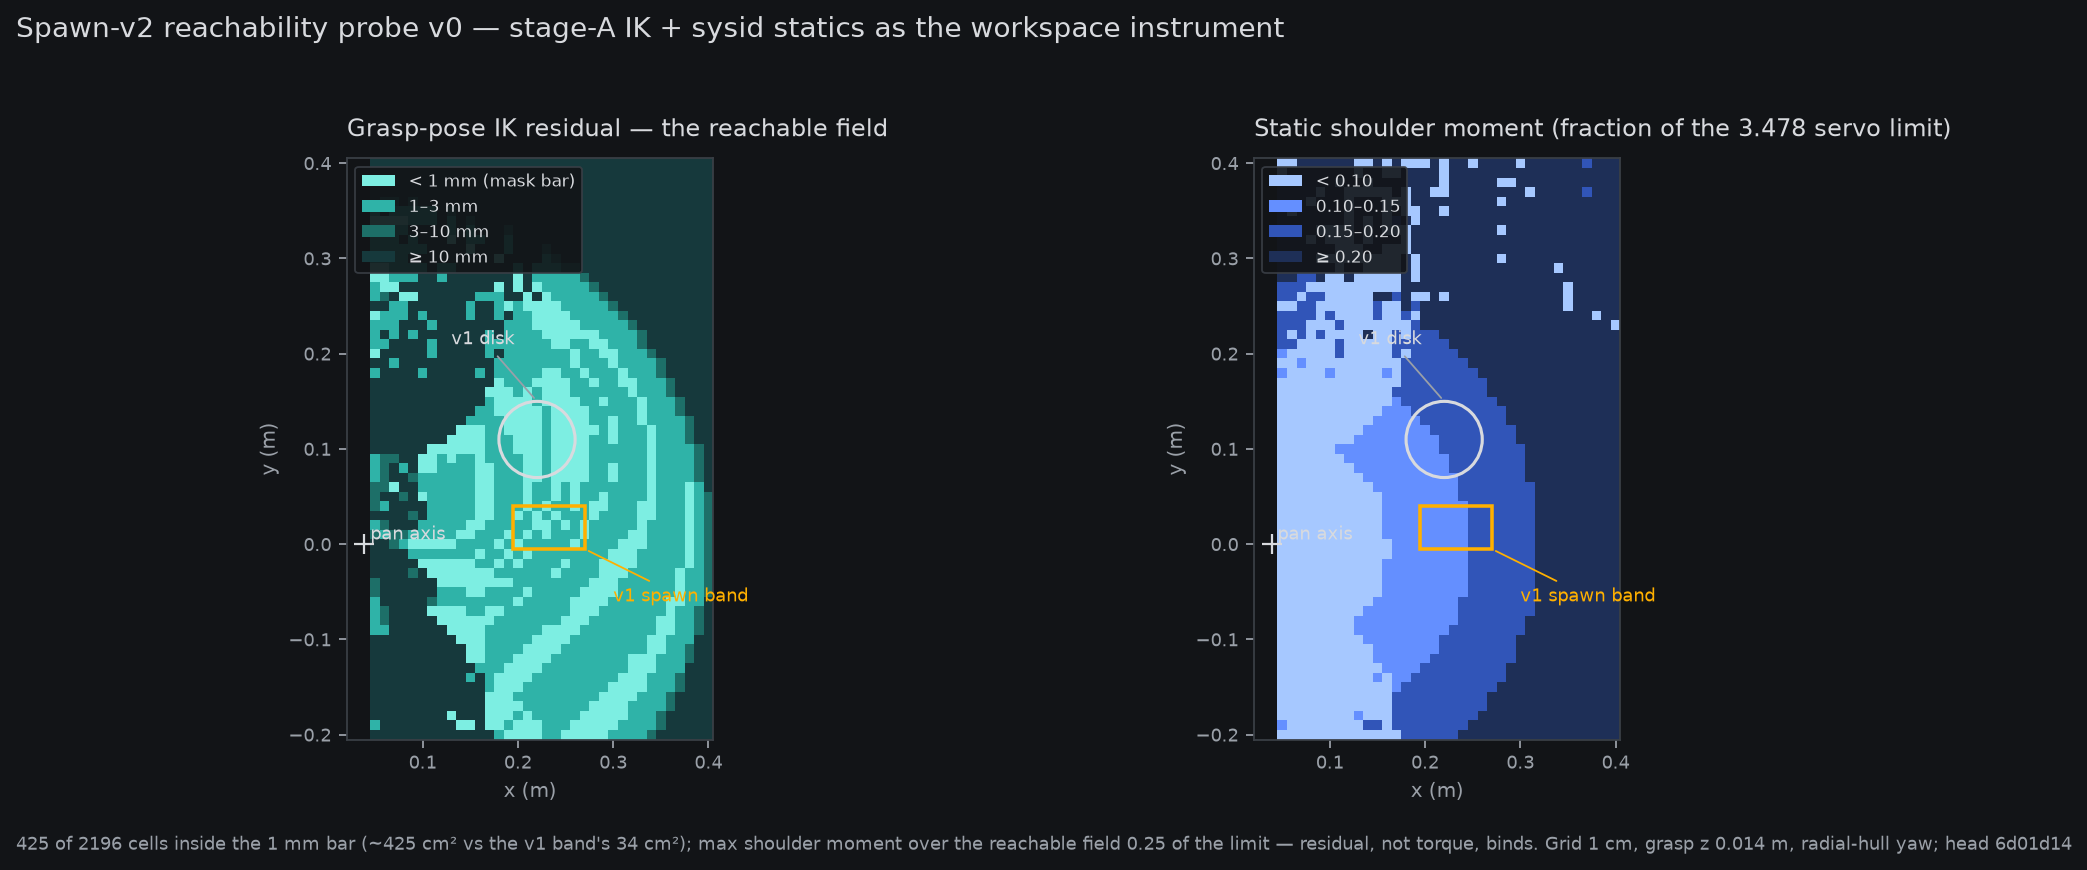
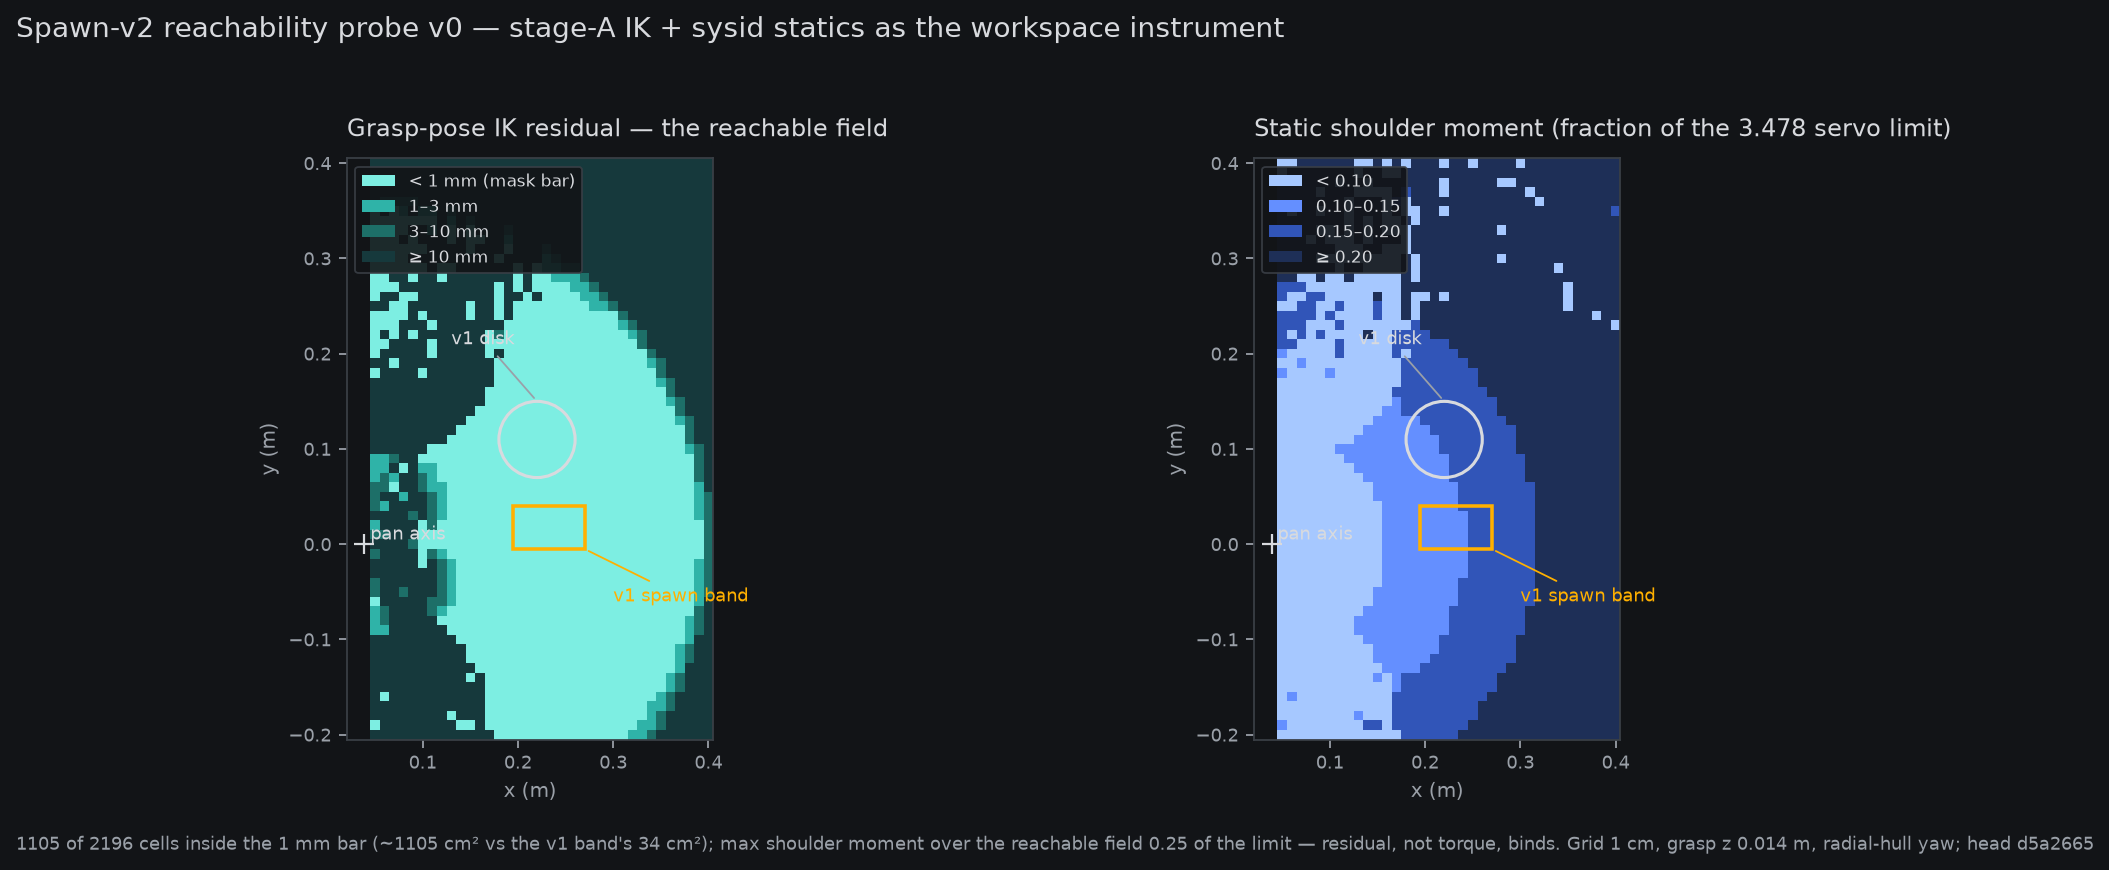
spawn-v2 instrument v1: tight-tol grasp solve local to probe (root cause: solve_ik 2mm site tol made pad residuals stopping-luck -> ring bands); mask cleaned() one-pass neighbor filter + largest component (977 solid cells, ~29x v1 band; sampler tail max 35/200, was 194); pre-reg SS3.1 both iteration

diff --git a/fontaine/scripts/spawn_v2_reachability_probe.py b/fontaine/scripts/spawn_v2_reachability_probe.py
@@ -32,12 +32,52 @@ import numpy as np
 
 sys.path.insert(0, str(Path(__file__).parents[2]))
 
-from sim.scripted_expert import PICKUP_QPOS, ExpertPlanner, ScriptedExpert
+from sim.scripted_expert import (
+    JAW_OPEN_RAD,
+    PICKUP_QPOS,
+    ExpertPlanner,
+    ScriptedExpert,
+)
 from sim.so101_sim import SERVO_SYSID, SO101Sim
 
 GRID_X = (0.05, 0.40)
 GRID_Y = (-0.20, 0.40)
 PITCH = 0.01  # m
+
+
+def solve_grasp_tight(
+    planner: ExpertPlanner,
+    target: np.ndarray,
+    boat_yaw: float,
+    seed_rad: np.ndarray,
+    *,
+    rounds: int = 3,
+) -> tuple[np.ndarray, float]:
+    """The stage-A grasp solve with an instrument-grade tolerance —
+    ``ExpertPlanner.solve_grasp`` stops at solve_ik's 2 mm SITE
+    tolerance, so whether a cell's pad residual lands under 1 mm is
+    stopping luck, not reachability (the v0 ring-banding). Same
+    alternation (roll align + wrist-locked pad IK), tol 0.2 mm and a
+    doubled iteration budget, LOCAL to the probe: stage-A behavior is
+    frozen, the instrument only measures harder."""
+    arm = seed_rad.copy()
+    arm[3] = seed_rad[3]
+    for _ in range(rounds):
+        arm = planner.align_wrist_roll(arm, boat_yaw, rounds=1)
+        for _ in range(2):
+            mid = planner.grasp_point(arm, JAW_OPEN_RAD)
+            site = planner.scratch.site_xpos[planner.site_id].copy()
+            arm, _ = planner.solve_ik(
+                target - (mid - site),
+                arm,
+                free_dofs=4,
+                tol=2e-4,
+                iters=120,
+            )
+    residual = float(
+        np.linalg.norm(target - planner.grasp_point(arm, JAW_OPEN_RAD)),
+    )
+    return arm, residual
 
 
 def probe_cell(
@@ -54,7 +94,7 @@ def probe_cell(
     # Radially-facing hull: jaw axis lands along the bearing (the yaw
     # class the pan-arc traverse produces at every carry endpoint).
     target = np.array([x, y, ScriptedExpert.GRASP_Z])
-    arm, residual = planner.solve_grasp(target, bearing, seed)
+    arm, residual = solve_grasp_tight(planner, target, bearing, seed)
     scratch.qpos[:] = 0.0
     scratch.qvel[:] = 0.0
     scratch.qpos[planner.arm_qpos] = arm

diff --git a/sim/spawn_v2.py b/sim/spawn_v2.py
@@ -75,6 +75,47 @@ class WorkspaceMask:
     def contains(self, x: float, y: float) -> bool:
         return (round(x / self.pitch), round(y / self.pitch)) in self.cells
 
+    def cleaned(self, *, min_neighbors: int = 5) -> WorkspaceMask:
+        """Morphological clean (pre-reg §3.1's v0-caveat fix): drop
+        cells with fewer than ``min_neighbors`` of their 8 neighbors in
+        W (speckle and ragged edge — the marginal-convergence cells
+        whose annulus is mostly rejected, the measured 194/200 tail),
+        then keep only the largest 4-connected component so W is one
+        solid region. ONE filter pass, deliberately — iterating to
+        fixpoint erodes any finite region to nothing (every pass
+        manufactures fresh sub-threshold corners)."""
+        cells = {
+            (i, j)
+            for (i, j) in self.cells
+            if sum(
+                (i + di, j + dj) in self.cells
+                for di in (-1, 0, 1)
+                for dj in (-1, 0, 1)
+                if (di, dj) != (0, 0)
+            )
+            >= min_neighbors
+        }
+        if not cells:
+            raise ValueError("workspace mask empty after morphological clean")
+        components: list[set[tuple[int, int]]] = []
+        todo = set(cells)
+        while todo:
+            frontier = [todo.pop()]
+            comp = set(frontier)
+            while frontier:
+                i, j = frontier.pop()
+                for di, dj in ((1, 0), (-1, 0), (0, 1), (0, -1)):
+                    n = (i + di, j + dj)
+                    if n in todo:
+                        todo.remove(n)
+                        comp.add(n)
+                        frontier.append(n)
+            components.append(comp)
+        return WorkspaceMask(
+            pitch=self.pitch,
+            cells=frozenset(max(components, key=len)),
+        )
+
     def sample(self, rng: np.random.Generator) -> tuple[float, float]:
         """Uniform over W: a uniform cell, then uniform jitter inside
         it (jitter stays within the drawn cell, so the point is in W

diff --git a/tests/test_spawn_v2.py b/tests/test_spawn_v2.py
@@ -107,3 +107,29 @@ def test_degenerate_mask_refuses(tmp_path: Path) -> None:
     mask = WorkspaceMask.from_probe(probe_json(tmp_path, [cell(0.20, 0.10, 5e-4)]))
     with pytest.raises(RuntimeError, match="acceptance degenerate"):
         draw_spawn_v2(mask, np.random.default_rng(0))
+
+
+def test_cleaned_drops_speckle_keeps_block(tmp_path: Path) -> None:
+    # A solid block plus one isolated speckle cell and one 1-cell spur:
+    # the clean must drop both and keep the block intact.
+    cells = [
+        cell(float(x), float(y), 5e-4)
+        for x in np.arange(0.10, 0.20 + PITCH / 2, PITCH)
+        for y in np.arange(0.00, 0.10 + PITCH / 2, PITCH)
+    ]
+    cells.append(cell(0.35, 0.30, 5e-4))  # speckle
+    cells.append(cell(0.10, 0.15, 5e-4))  # detached spur
+    raw = WorkspaceMask.from_probe(probe_json(tmp_path, cells))
+    cleaned = raw.cleaned()
+    assert not cleaned.contains(0.35, 0.30)
+    assert not cleaned.contains(0.10, 0.15)
+    assert cleaned.contains(0.15, 0.05)
+    # interior shrinks only at the rim: the block's interior survives
+    assert len(cleaned.cells) >= len(raw.cells) - 2 - 4 * 11
+
+
+def test_cleaned_all_speckle_refuses(tmp_path: Path) -> None:
+    cells = [cell(0.10, 0.00, 5e-4), cell(0.30, 0.30, 5e-4)]
+    raw = WorkspaceMask.from_probe(probe_json(tmp_path, cells))
+    with pytest.raises(ValueError, match="empty after morphological clean"):
+        raw.cleaned()

diff --git a/fontaine/blog/src/posts/2026-08-16-prereg-sim-spawn-v2.md b/fontaine/blog/src/posts/2026-08-16-prereg-sim-spawn-v2.md
@@ -92,37 +92,43 @@ in-W); acceptance-floor refusal on a degenerate mask.
 
 ### §3.1 Instrument v0 — first measured fields (added ~10:3xZ, same session)
 
-The probe ran (CPU, ~2 min; `reports/analysis__spawn_v2_reachability_v0.json`,
-head `6d01d14`): 1 cm Cartesian grid, 2196 cells, stage-A `solve_grasp`
-at GRASP_Z = 0.014 m with the pan pre-swung to each cell's bearing and
-a radially-facing hull.
+The probe ran (CPU, ~2–4 min; `reports/analysis__spawn_v2_reachability_v0.json`):
+1 cm Cartesian grid, 2196 cells, the stage-A grasp solve at
+GRASP_Z = 0.014 m with the pan pre-swung to each cell's bearing and a
+radially-facing hull. The instrument took two iterations to get honest,
+and the interim readings are kept here because they shaped the design:
 
-![Spawn-v2 reachability probe v0: IK-residual field and static shoulder-moment field](../img/spawn_v2/reachability_v0.png)
+- **v0** used `ExpertPlanner.solve_grasp` as-is and read 425 cells
+  under the 1 mm bar — but arranged in ring-bands. On that speckled
+  mask the sampler's measured tail hit **194 of the 200-draw refusal
+  bar** (mean 7.2 attempts over 2000 episodes): edge disks saw a
+  mostly-rejected annulus. A morphological clean then collapsed the
+  bands to 66 cells and the sampler *correctly refused outright* —
+  the loud-refusal design did its job and flagged the instrument.
+- **Root cause**: `solve_ik` stops at its 2 mm SITE tolerance, so
+  whether a cell's *pad* residual lands under 1 mm was stopping luck,
+  not reachability. The rings were a solver artifact, not arm physics.
+- **v1** re-solves with an instrument-grade tolerance (0.2 mm, doubled
+  iteration budget, local to the probe — stage-A behavior untouched).
 
-Three facts the finalization constants will be cut from:
+![Spawn-v2 reachability probe: IK-residual field and static shoulder-moment field](../img/spawn_v2/reachability_v0.png)
 
-1. **425 cells sit inside the 1 mm residual bar** (~425 cm² vs the v1
-   band's 34 cm² — a ~12× larger spawn field), an annular region from
-   near the base out to ~0.35 m, containing the v1 band (0.57 mm at
-   its center) and the v1 disk (0.31 mm) comfortably.
+The v1 facts the finalization constants will be cut from:
+
+1. **1105 cells sit inside the 1 mm residual bar**, and the
+   one-pass neighbor clean + largest-component step leaves a **solid
+   977-cell region (~977 cm² vs the v1 band's 34 cm² — ~29×)**,
+   containing the v1 band and disk comfortably. On the cleaned mask
+   the sampler measures mean 2.4 boat attempts, p99 10, **max 35** of
+   the 200-draw refusal bar over 5000 episodes — the tail is gone.
 2. **Static torque does not bind**: over the whole reachable field the
    shoulder's static gravity moment peaks at 0.25 of the 3.478
    force limit — the nullspace posture pull keeps solves out of the
    straight-arm poses that saturated the servo in stage A. The torque
    bound in W is a backstop, not the working constraint; the residual
    bar does the work.
-3. **v0 caveat**: the <1 mm region shows ring-banding — cells where
-   the fixed-budget DLS iteration converges marginally flicker across
-   the bar. Before the mask freezes, the probe gets a convergence
-   margin (more iterations + a hysteresis band, plus a morphological
-   clean) so W is a solid region, not a speckle field. This is an
-   instrument artifact, not arm physics. Measured consequence on the
-   sampler (2000 episodes on the v0 mask): mean 7.2 boat attempts,
-   p99 45, **max 194 — one attempt shy of the 200-draw refusal bar**,
-   because disks drawn at speckled mask edges see a mostly-rejected
-   annulus. The mask clean and the refusal bar must be finalized
-   together, with the bar sitting well above the cleaned mask's
-   measured tail.
+3. The sampler (`sim/spawn_v2.py`, 7 CPU oracles) is standalone —
+   `SO101Sim.reset` is untouched until this pre-reg finalizes.
 
 ## §4 Registered consequences (the expensive part, priced)
 
@@ -140,11 +146,23 @@ re-validation, not a formality — if it fails its gate, the expert
 gets ONE registered robustness amendment (the v1 ladder's precedent)
 before any F-verdict.
 
-## §5 What finalization must pin (open in this draft)
+## §5 What finalization must pin — with proposed values (measured, not yet frozen)
 
-The torque-fraction bound and grid pitch defining W; r_min margin,
-r_max, keep-out radius, acceptance floor N/rate; A′ seed band + gate
-arithmetic; whether B′–D′ inherit the stage-B/C frozen recipes
-verbatim or re-open any knob (default: verbatim). Owner calls that
-sequence it: priority vs the token-legs report (asked 09:50Z), and
-the C′ route choice.
+From the v1 instrument, the freeze candidates now have numbers
+(`sim/spawn_v2.py` DRAFT constants, sources commented at each):
+
+| constant | proposed | source |
+|---|---|---|
+| W residual bar | 1 mm under the tight-tol solve (0.2 mm / 120 iters) | §3.1 v1 |
+| W torque bound | 0.5 of forcerange (backstop; measured max 0.25) | §3.1 |
+| mask clean | one ≥5-of-8-neighbors pass + largest 4-connected component | §3.1 (one pass only — iterating erodes any finite region) |
+| r_min | 0.08 m (disk 0.04 + hull 0.03 + 0.01 margin) | v1 band arithmetic |
+| r_max | 0.19 m (~2× the v1 mean start distance) | phase-clock budget |
+| jaw keep-out | 0.04 m around (0.155, 0) | v1's measured ~4% failure |
+| refusal bar | 200 draws (measured max on cleaned mask: 35) | §3.1 v1 |
+
+Still genuinely open: A′ seed band + gate arithmetic; whether B′–D′
+inherit the stage-B/C frozen recipes verbatim or re-open any knob
+(default: verbatim). Finalization = a registered post freezing this
+table + the objection window, after the owner's two calls: priority
+vs the token-legs report (asked 09:50Z), and the C′ route choice.

diff --git a/fontaine/blog/src/queue.md b/fontaine/blog/src/queue.md
@@ -22,7 +22,7 @@
 
 [pre-reg to be drafted as the item's first CPU slice: posts/2026-08-16-prereg-sim-spawn-v2.md
 
-**boundary:** Queued 09:50Z 08-16 at the owner steering. CPU slice executable now: pre-reg draft + spawn-v2 sampler + reachability probe harness (oracle-tested, no GPU). GPU slices (demo re-collect, retrain, eval) sequence AFTER the joint probe chain closes and behind any owner priority call — asked in-channel 09:50Z whether this outranks the token-legs report. || PRE-REG DRAFT LANDED 10:3xZ 08-16 (posts/2026-08-16-prereg-sim-spawn-v2.md): v1 pinned exactly (disk fixed (0.22,0.11) r=0.04, band 7.5x4.5cm), v2 design = disk uniform over measured-workspace mask W (stage-A IK residual + shoulder static-moment instrument, precomputed polar-grid mask) + boat full annulus with rejection (in-W, r_min = disk 0.04 + hull 0.03 + margin, parked-jaw keep-out, bounded acceptance w/ loud refusal); spawn_version param, v1 bit-compat oracle-guarded, registered protocol break; consequences table A'-D' priced (~10-12 GPU-h worst case); finalization pins = torque fraction, grid pitch, r_min/r_max, floor, A' band. NEXT CPU slice: sim/spawn_v2.py sampler + reachability probe + oracles (after pre-reg finalization or owner go). GPU slices still behind owner priority call (asked 09:50Z). || CPU SLICE 2 LANDED 10:3xZ: sim/spawn_v2.py sampler (WorkspaceMask.from_probe residual+moment bars, area-uniform annulus, jaw keep-out, 200-draw loud refusal; DRAFT constants commented with sources) + tests/test_spawn_v2.py 5 oracles green; instrument v0 fields on the pre-reg page (chart, 425-cell mask, torque-not-binding finding) + measured sampler tail on the REAL mask (mean 7.2 attempts, max 194 of the 200 bar -&gt; mask clean + refusal bar freeze TOGETHER, recorded SS3.1). NOT wired into SO101Sim.reset - integration + v1 stream-compat guard land post-finalization. REMAINING: probe convergence margin + morphological clean, finalization post (constants freeze + objection window), then owner-gated GPU ladder A'-D'.
+**boundary:** Queued 09:50Z 08-16 at the owner steering. CPU slice executable now: pre-reg draft + spawn-v2 sampler + reachability probe harness (oracle-tested, no GPU). GPU slices (demo re-collect, retrain, eval) sequence AFTER the joint probe chain closes and behind any owner priority call — asked in-channel 09:50Z whether this outranks the token-legs report. || PRE-REG DRAFT LANDED 10:3xZ 08-16 (posts/2026-08-16-prereg-sim-spawn-v2.md): v1 pinned exactly (disk fixed (0.22,0.11) r=0.04, band 7.5x4.5cm), v2 design = disk uniform over measured-workspace mask W (stage-A IK residual + shoulder static-moment instrument, precomputed polar-grid mask) + boat full annulus with rejection (in-W, r_min = disk 0.04 + hull 0.03 + margin, parked-jaw keep-out, bounded acceptance w/ loud refusal); spawn_version param, v1 bit-compat oracle-guarded, registered protocol break; consequences table A'-D' priced (~10-12 GPU-h worst case); finalization pins = torque fraction, grid pitch, r_min/r_max, floor, A' band. NEXT CPU slice: sim/spawn_v2.py sampler + reachability probe + oracles (after pre-reg finalization or owner go). GPU slices still behind owner priority call (asked 09:50Z). || CPU SLICE 2 LANDED 10:3xZ: sim/spawn_v2.py sampler (WorkspaceMask.from_probe residual+moment bars, area-uniform annulus, jaw keep-out, 200-draw loud refusal; DRAFT constants commented with sources) + tests/test_spawn_v2.py 5 oracles green; instrument v0 fields on the pre-reg page (chart, 425-cell mask, torque-not-binding finding) + measured sampler tail on the REAL mask (mean 7.2 attempts, max 194 of the 200 bar -&gt; mask clean + refusal bar freeze TOGETHER, recorded SS3.1). NOT wired into SO101Sim.reset - integration + v1 stream-compat guard land post-finalization. REMAINING: probe convergence margin + morphological clean, finalization post (constants freeze + objection window), then owner-gated GPU ladder A'-D'. || INSTRUMENT v1 + MASK CLEAN LANDED 10:5xZ: v0 ring-banding root-caused to solve_ik's 2mm SITE tol (sub-mm pad residuals were stopping luck) -&gt; probe re-solves at 0.2mm/120-iter LOCAL to the instrument (stage-A untouched); field now SOLID 1105 cells -&gt; cleaned() (one &gt;=5-of-8 pass + largest component; one pass deliberately, fixpoint erodes everything) 977 cells ~29x the v1 band; sampler tail on cleaned mask mean 2.4 / p99 10 / max 35 of the 200 bar (5000 eps) - tail GONE. 7 oracles green. Pre-reg SS3.1 rewritten with both instrument iterations + SS5 now a PROPOSED FREEZE TABLE (all constants measured). REMAINING: finalization post (freeze + objection window) BEHIND owner priority call + C' route; then wiring spawn_version into SO101Sim.reset (v1 bit-compat oracle) + GPU ladder A'-D' (owner-gated, GPU also owner-held).
 
 <details><summary>full record</summary>
 
